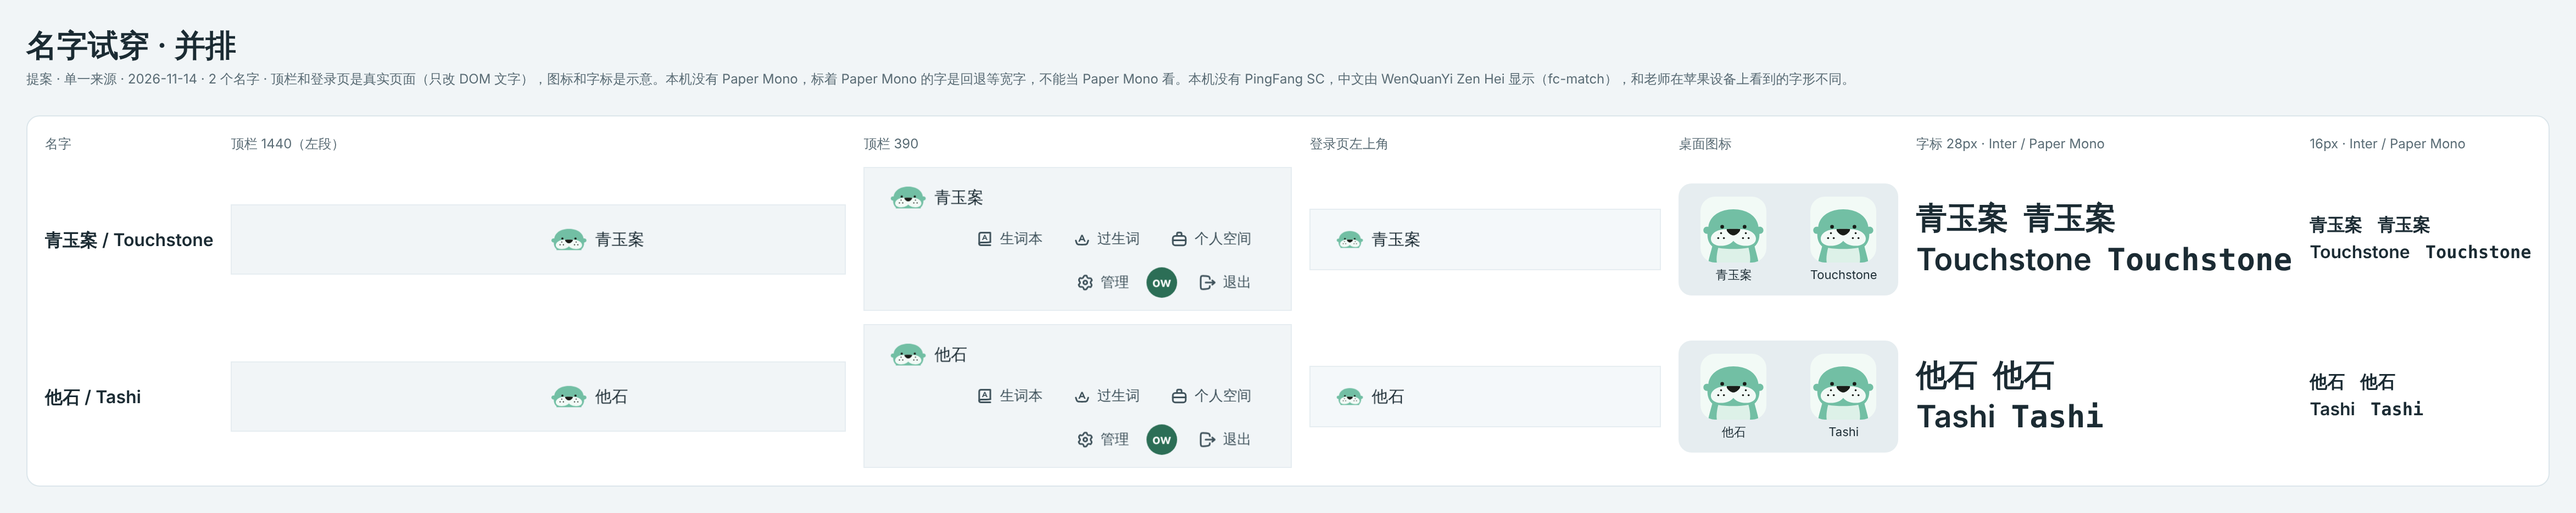
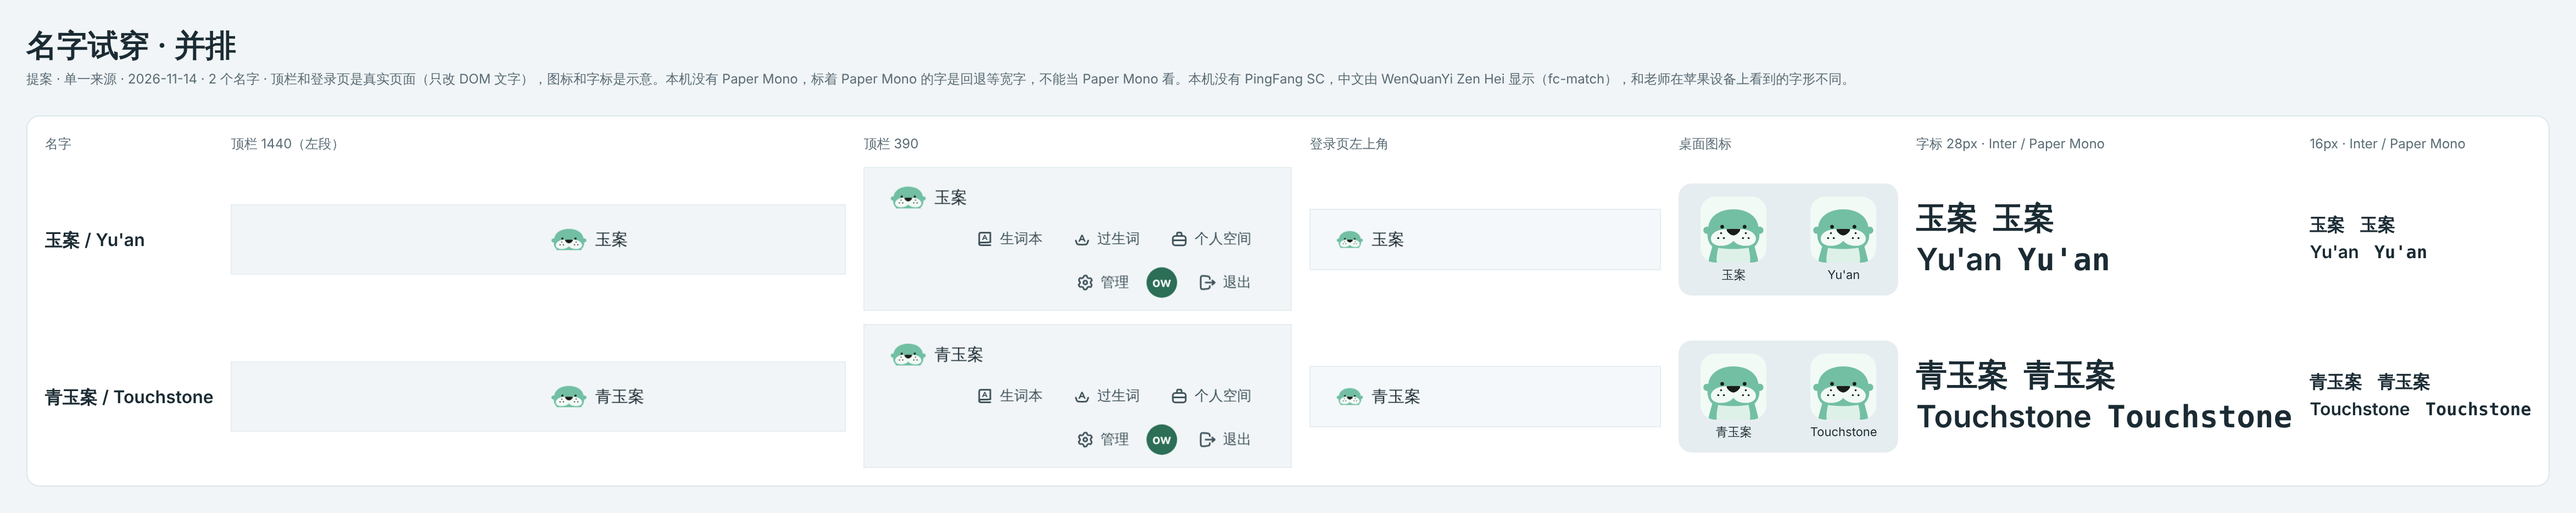
命名：记下 Owner 的十个好听名字、句子测试和「玉案」，补试穿图
Claude-Session: https://claude.ai/code/session_01Ct2ZK9gFhJo2CP1NsM765z

diff --git a/design/brand-2026-10-13/naming-round-2026-11-14.md b/design/brand-2026-10-13/naming-round-2026-11-14.md
@@ -675,3 +675,32 @@ Owner：「《青玉案》吧代理人是不是我要去找他？可是这些肯
 - 没有转让、许可备案的记录，也没有人对它提过撤销或无效。
 - 申请时收到过驳回通知，最后还是注册了。我猜是部分驳回（原来申请的项目被砍掉一些），没看到通知内容，不能确定。
 - 2022 年持有人改过名义或地址，说明那时还有人在管这件商标。这不等于商标在实际使用。
+
+## 十六、Owner 给了十个好听的名字，定出两条规矩，「玉案」有搞头（2026-11-14）
+
+**Owner 觉得好听的十个**（我请 Owner 随便说几个，哪个行业都行）：他石、青玉案、启明星、双子星、千百度、月之暗面、Claude、工厂、学而思、高途。
+
+我从中看到的规律（判断）：三个是天上的；四个从古书里来；一半是三个字；意思往大处、远处走，没有小物件，没有可爱的；都落在一个实在的字上。所以第十四节的镇纸、窗台、芦苇太家常，方向不对。
+
+**Owner 的句子测试**：Owner 把「共潮生」放进一句话里念：「这道题，共潮生上有啊」，觉得怪。由此得出一条规矩（提案）：名字要是一个地方，或者一条船、一间屋这样能待进去的东西，接「上有」「里有」不别扭。半句诗（共潮生、浮于海）、一个时间（既望、生光）、一条线一个点（晨昏线、近日点）都过不了。
+
+**这中间出过的几批**（都只查了苹果中国区前 25 条，商标没查；出处照我记的）：
+
+| 批 | 名字 | 苹果上的情况 |
+|---|---|---|
+| 词牌 | 满庭芳、解连环、定风波、风入松、少年游、西江月、临江仙 | 满庭芳有同名游戏；西江月有两个诗词应用；其余没看到 |
+| 截句 | 寻他、如琢、星如雨、蓦然、攻玉 | 没查。Owner：「不好听」 |
+| 天上一 | 既望、晨昏线、近日点、测地线、比邻星、伴星、勾陈、少微、北落师门、玉衡 | 伴星（娱乐，262 个评分）、比邻星（酒店集团的商务应用，130 个评分）、玉衡（证券交易系统）有同名；其余没看到 |
+| 天上二 | 虹湾、环形山、月岩、生光、复圆、贝利珠、主序星、脉冲星、导星、一千河、巡天、星垂、参横、碧落、天顶、对日照 | 一千河、巡天、星垂有同名小应用；其余没看到 |
+| 海和雾 | 夜航船、共潮生、浮于海、海图室、济沧海、观沧海、渔火、津渡、雾灯、灯船、六分仪、锚地、雾海 | 夜航船有一个同名教育应用（7 个评分）；观沧海、锚地各有一个小应用；其余没看到 |
+| 简单组合 | 石案、玉案、星案、他山、青石、雾屿、石屿、青舟、青屿、枕石、轻舟、海石 | 轻舟有八个同名应用（一个是教育类），放下；青屿、青石、海石有小应用；其余没看到 |
+
+**玉案**：Owner 说「有搞头，玉案，查玉案只能出青玉案」，意思是在商标网搜「玉案」，出来的只有那些「青玉案」，没有单独的「玉案」。
+
+我的看法（提案；不是法律意见）：
+
+- 这说明单独的「玉案」在各类里都没看到注册，比青玉案多一层余地：我们的名字和第 41 类那件（33611810 青玉案）不再一模一样，只是被它包含。
+- 但「玉案」整个包含在「青玉案」里，审查员仍可能判近似。第 41 类的障碍变小了，没有消失；第 9、42 类的情况和青玉案一样，看起来是空的。
+- 没确认的：Owner 搜出来的是不是就是那 59 件；商标网的搜索是「包含」还是「精确」。
+- 字面：玉做的几案。读音同「预案」。拉丁写法没定，试穿时暂用 Yu'an。
+- 已用试穿脚本拍了「玉案 / Yu'an」，和青玉案并排：`naming-fitting-2026-11-14/fit-玉案.png`、`fit-all.png`。

diff --git a/design/brand-2026-10-13/trademark-agent-brief-2026-11-14.md b/design/brand-2026-10-13/trademark-agent-brief-2026-11-14.md
@@ -30,6 +30,14 @@
 4. 全部做下来（近似检索、申请、可能的撤销）大概多少钱、多久？
 5. 如果「青玉案」不行，加字的写法（比如前面或后面加一两个字）有没有用？
 
+## 另一个想要的名字：玉案
+
+Owner 2026-11-14 在中国商标网搜「玉案」，出来的只有上面那些「青玉案」，没有单独的「玉案」。想请代理人一并回答：
+
+1. 「玉案」在第 9、42 类申请，把握多大？
+2. 「玉案」在第 41 类申请，会不会因为 33611810「青玉案」被判近似？
+3. 「青玉案」和「玉案」两个里，哪个更容易拿下、用起来更安全？
+
 ## 备选（青玉案不行时再问）
 
 - 拉丁名 Docendo：第 9、41、42 类都有 DOCEBO（国际注册 G1216419 和多西博股份公司的五件），想知道 DOCENDO 会不会被判近似。
